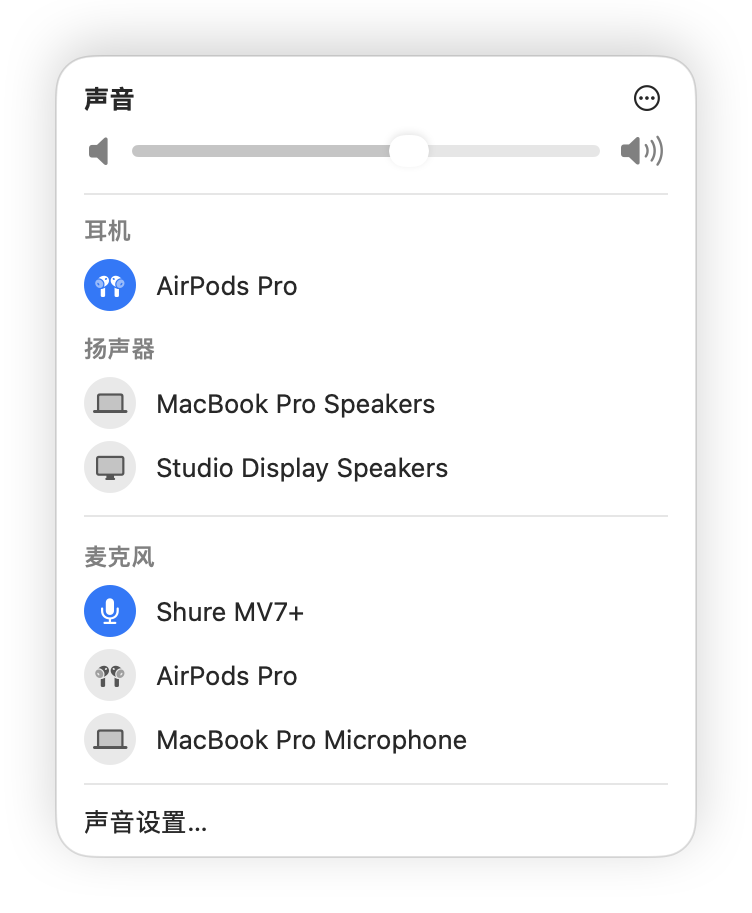
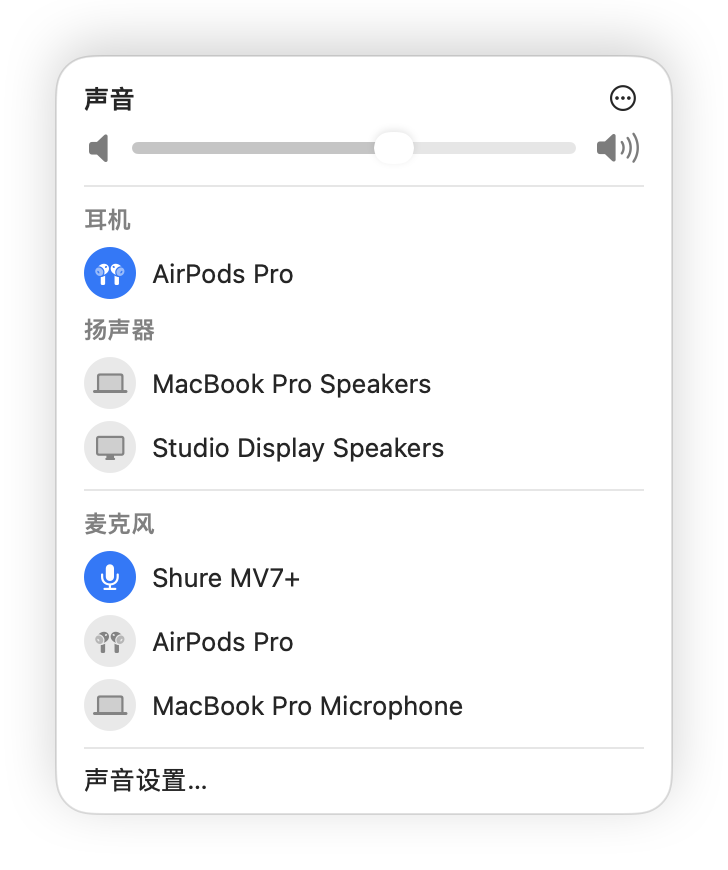
docs: describe the two languages, with a screenshot of each

diff --git a/README.en.md b/README.en.md
@@ -19,10 +19,8 @@
 </p>
 
 <p align="center">
-  <img src="screenshot.png" width="376" alt="The Audio Priority Bar panel">
+  <img src="screenshot-en.png" width="364" alt="The Audio Priority Bar panel">
 </p>
-
-> The interface is in Simplified Chinese. For an English interface, see the original project, [tobi/AudioPriorityBar](https://github.com/tobi/AudioPriorityBar).
 
 ## Why
 
@@ -38,6 +36,7 @@ Audio Priority Bar keeps a ranked list for speakers, headphones and microphones,
 - **A panel in the system's style**: laid out after the macOS Sound menu, with an icon for each kind of device.
 - **A menu bar icon that follows the state**: mute, volume level, and the headphones in use.
 - **Runs locally**: no network access, no recording, no microphone permission, no analytics.
+- **English and Chinese**: the interface follows the system language, or the one you pick in the menu.
 
 ## Install
 
@@ -71,16 +70,16 @@ The app has no window and no Dock icon, only a speaker icon in the menu bar.
 
 ## Usage
 
-On first use, open the panel, move the devices you want to the top of each list, and turn on "开机启动" (open at login) in the ⋯ menu at the top right.
+On first use, open the panel, move the devices you want to the top of each list, and turn on Open at Login in the ⋯ menu at the top right.
 
 | Action | Result |
 |---|---|
 | Click a device | Selects it and moves it to the top of its list |
 | Drag a device | Changes the priority order |
 | Hover a device and click its ⋯ | Ignore the device, never pick it automatically, or move it between headphones and speakers |
-| The ⋯ menu next to the title | Automatic switching on or off, open at login, edit the device list, quit |
+| The ⋯ menu next to the title | Automatic switching on or off, open at login, edit the device list, language, quit |
 | Edit the device list | Shows disconnected devices, to rank them ahead of time or forget old ones |
-| 声音设置… | Opens Sound in System Settings |
+| Sound Settings… | Opens Sound in System Settings |
 
 With automatic switching off, the app leaves the devices alone, and an orange notice next to the title says so. Click the notice to turn switching back on.
 
@@ -117,7 +116,7 @@ defaults delete app.audioprioritybar
 
 The menu bar panel cannot be captured from outside, so the repository carries two tools for checking changes:
 
-- `tools/render-preview.sh [output.png] [--manual-look] [--edit-look] [--demo]` renders the panel to an image. It does not change the audio devices.
+- `tools/render-preview.sh [output.png] [--manual-look] [--edit-look] [--demo] [--lang en|zh-Hans]` renders the panel to an image. It does not change the audio devices.
 - `tools/check-devices.sh` prints which list and which icon a table of sample devices gets.
 
 The download is made by `tools/make-dmg.sh`, which builds a universal app and packs it into a `.dmg` under `dist/`.
@@ -127,7 +126,7 @@ The download is made by `tools/make-dmg.sh`, which builds a universal app and pa
 This project is based on [tobi/AudioPriorityBar](https://github.com/tobi/AudioPriorityBar). The priority-switching logic is the original author's. Changes made here:
 
 - The panel is restyled after the macOS Sound menu
-- The interface is translated to Chinese
+- The interface is in English and Chinese, following the system language by default
 - Clicking a device selects it and moves it to the top (the original ignores clicks while switching is automatic)
 - The menu bar icon follows mute, volume and headphone state
 - The device list no longer collapses in the menu bar panel on macOS 27
